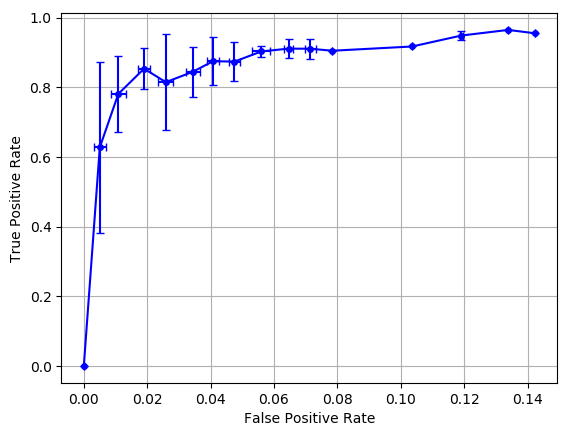
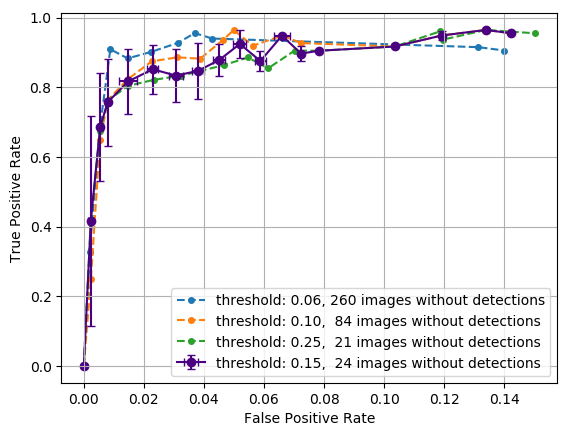
Plot ROC for different thresholds

diff --git a/main.py b/main.py
@@ -5,9 +5,14 @@ from matplotlib import pyplot as plt
 from PIL import Image, ImageDraw
 import warnings
 import timeit
+import os
 
 
 class detection:
+    def __init__(self, save_output=True):
+        self.save_output = save_output
+
+
     def apply_filter(self, img):
         ''' Create the filter mask to filter the sides of the gates and apply it to the image. '''
         hsv = cv2.cvtColor(img, cv2.COLOR_BGR2HSV)
@@ -20,7 +25,7 @@ class detection:
         return cv2.cvtColor(img, cv2.COLOR_BGR2GRAY)
 
 
-    def detect_gate(self, image_index=265):
+    def detect_gate(self, image_index=265, threshold=0.15):
         '''
         Detect the gates in the image given by image_index.
 
@@ -38,8 +43,8 @@ class detection:
 
         filtered_img = self.apply_filter(img)
 
-        _, threshold = cv2.threshold(filtered_img, 50, 100, 0)
-        contours, _ = cv2.findContours(threshold, cv2.RETR_TREE, cv2.CHAIN_APPROX_SIMPLE)
+        _, threshold_img = cv2.threshold(filtered_img, 50, 100, 0)
+        contours, _ = cv2.findContours(threshold_img, cv2.RETR_TREE, cv2.CHAIN_APPROX_SIMPLE)
         pillars = []
 
         for contour in contours:
@@ -71,8 +76,6 @@ class detection:
             pillars.append([left_pillar, top_extrapolated, bottom_extrapolated, height])
 
         output_img = np.zeros((img.shape[0], img.shape[1]))
-        true_positives = 0
-        false_positives = 0
         used_right_pillars = []
 
         for i in range(len(pillars)):
@@ -124,7 +127,7 @@ class detection:
                         inner_polygons.append([*bottomleft_inner, *topleft_inner, *topright_inner, *bottomright_inner])
 
                 penalties = np.array(penalties)
-                if len(penalties) < 1 or np.min(penalties) > 0.15:
+                if len(penalties) < 1 or np.min(penalties) > threshold:
                     continue
 
                 # Determine which pillar matches best to the left pillar.
@@ -145,34 +148,35 @@ class detection:
 
         if self.save_output:
             output_img[output_img > 1] = 1
-            true_positives += np.sum(output_img * mask)
-            false_positives += np.sum(output_img * (255 - mask))
+            true_positives = np.sum(output_img * mask)
+            false_positives = np.sum(output_img * (255 - mask))
             return img, true_positives / np.sum(mask), false_positives / np.sum(255 - mask)
 
         return img, np.nan, np.nan
 
-    def process(self, img_list=None, save_output=True):
+    def process(self, img_list=None, thresholds=[0.15]):
         ''' Process a list of images and output the resulting segmented images '''
-        self.save_output = save_output
-        plot_data = []
 
-        if img_list == None:
-            img_list = range(439)
+        for threshold in thresholds:
+            plot_data = []
 
-        start = timeit.default_timer()
+            if img_list == None:
+                img_list = range(439)
 
-        for image in img_list:
-            img, TPR, FPR = det.detect_gate(image)
-            plot_data.append((FPR, TPR))
+            start = timeit.default_timer()
 
-            if self.save_output and not isinstance(img, bool):
-                cv2.imwrite('results/result_{}.png'.format(str(image)), img)
+            for image in img_list:
+                img, TPR, FPR = det.detect_gate(image, threshold)
+                plot_data.append((FPR, TPR))
 
-        stop = timeit.default_timer()
-        print('Computation time: ', stop - start, 's')
-        print('Computation time per image: ', (stop - start) / 308 * 1e3, 'ms')
+                if self.save_output and not isinstance(img, bool):
+                    cv2.imwrite('results/result_{}.png'.format(str(image)), img)
 
-        np.save('plot_data', plot_data)
+            stop = timeit.default_timer()
+            # print('Computation time: ', stop - start, 's')
+            print('Computation time per image: ', (stop - start) / 308 * 1e3, 'ms')
+
+            np.save('results/data_{:.2f}'.format(threshold), plot_data)
 
 
     def plot(self):
@@ -181,36 +185,52 @@ class detection:
         if not self.save_output:
             return
 
-        # Ignore warnings about nan values.
-        warnings.filterwarnings('ignore')
+        for threshold in thresholds:
+            # Ignore warnings about nan values.
+            warnings.filterwarnings('ignore')
 
-        # Load data
-        plot_data = np.load('plot_data.npy')
+            data_file = 'results/data_{:.2f}.npy'.format(threshold)
 
-        x = np.array([item[0] for item in plot_data])
-        y = np.array([item[1] for item in plot_data])
+            # Load data
+            plot_data = np.load(data_file)
 
-        # Cluster/window the data into bins to make plot more readble.
-        bins = np.linspace(0, np.max(x[x <= 1.0]), 20)
-        avg_std = np.zeros((len(bins), 4))
+            x = np.array([item[0] for item in plot_data])
+            y = np.array([item[1] for item in plot_data])
 
-        for i in range(1, len(bins)):
-            data = np.where(np.logical_and(x > bins[i - 1], x <= bins[i]))
-            avg_std[i, :] = [
-                np.average(x[data]), np.average(y[data]),
-                np.std(y[data]), np.std(x[data])
-            ]
+            # Cluster/window the data into bins to make plot more readble.
+            bins = np.zeros(22)
+            bins[:4] = np.linspace(0, 0.01, 4)
+            bins[4:] = np.linspace(0.02, np.max(x[x <= 1.0]), 18)
+            avg_std = np.zeros((len(bins), 4))
 
-        avg_std = avg_std[avg_std[:, 0] <= 1.0, :]
-        plt.errorbar(avg_std[:, 0], avg_std[:, 1], avg_std[:, 2], avg_std[:, 3],
-            marker='o', markersize=4, capsize=3, ecolor='b', barsabove=False, color='b')
+            for i in range(1, len(bins)):
+                data = np.where(np.logical_and(x > bins[i - 1], x <= bins[i]))
+                avg_std[i, :] = [
+                    np.average(x[data]), np.average(y[data]),
+                    np.std(y[data]), np.std(x[data])
+                ]
+
+            no_gates_count = np.sum(x == 0)
+            label = 'threshold: {:2.2f}, {:3} images without detections'.format(threshold, no_gates_count)
+
+            avg_std = avg_std[avg_std[:, 0] <= 1.0, :]
+
+            if threshold == 0.15:
+                plt.errorbar(avg_std[:, 0], avg_std[:, 1], avg_std[:, 2], avg_std[:, 3],
+                    marker='o', markersize=6, capsize=3, barsabove=False, label=label, zorder=1, color='indigo')
+            else:
+                plt.plot(avg_std[:, 0], avg_std[:, 1], label=label, marker='o', zorder=0, markersize=4, ls='--')
+
+            print('Number of images with no gates detected: {} for threshold: {}'.format(no_gates_count, threshold))
+
         plt.xlabel('False Positive Rate')
         plt.ylabel('True Positive Rate')
         plt.grid()
+        plt.legend()
         plt.savefig('roc', bbox_inches='tight')
 
-        print('Number of images with no gates detected: {}'.format(np.sum(x == 0)))
+thresholds = [0.06, 0.1, 0.15, 0.25]
 
 det = detection()
-det.process(None, False)
+det.process(None, thresholds)
 det.plot()
